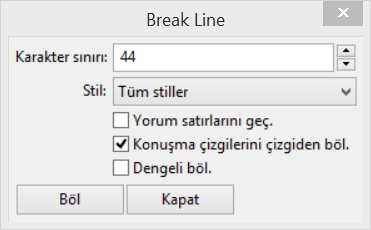
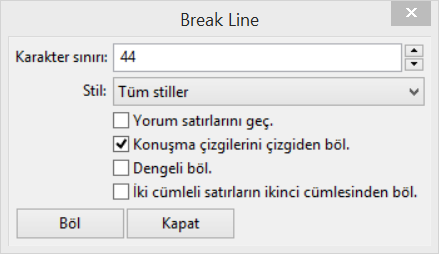
1.1.2

diff --git a/README.md b/README.md
@@ -135,11 +135,12 @@ Bazı işaretleri onun karşılığı olan şeye dönüştürürsünüz. Satıra
 
 ### [Break Line](automation/autoload/mag.break_line.lua)
 Satır bölme yapılmamış satırları böler.
-* **Karakter sınırı:** Varsayılan değeri 44'tir. Varsayılan değer üzerinden konuşacak olursak 44 ve üstü karakterde devreye girecektir.
+* **Karakter sınırı:** Varsayılan değeri 44'tir. Varsayılan değer üzerinden konuşacak olursak 44 ve üstü karakterde devreye girecektir. Bu değer sadece sembolüktür. **\\N** karakterinin koyulması için yapılan hesaplamaya bir etkisi yoktur. **\\N** koyulacak satırları tespit etmeye etkisi vardır. En az **35**, en fazla **50** değeri girilebilir.
 * **Stil:** Hangi stile göre işlem yapmasını istediğinizi seçin. Sadece kullanılan stiller listelenir. Stil isimlerinin başındaki ilk sayı yorum satırı yapılmamış iken ikinci sayı yapılmış satırların sayısıdır.
 * **Yorum satırlarını geç:** Yorum satırı yapılmış satırlara işlem yapmaz.
-* **Konuşma çizgilerinden böl:** İster karakter sınırını aşan ister de aşmayan iki adet konuşma çizgisi bulunan satırlarda ikinci konuşma çizgisinin başından böler.
+* **Konuşma çizgilerinden böl:** Karakter sınırının altında veya üstünde olan ikili veya tekli konuşma satırlarını konuşma çizgisinden böler.
 * **Dengeli böl:** Üst ve alt satırın en az farka sahip olduğu yerden böler.
+* **İki cümleli satırların ikinci cümlesinden böl:** Karakter sınırına girilen değerin yarısıyle onun altında kalan karakter sayısına sahip iki cümleli satırların ikinci cümlesinden böler.
 
 ### [Copy Dialogue](automation/autoload/mag.copy_dialogue.lua)
 Alt yazıdaki metinleri panoya veya oluşturduğu metin dosyasına kopyalar.
